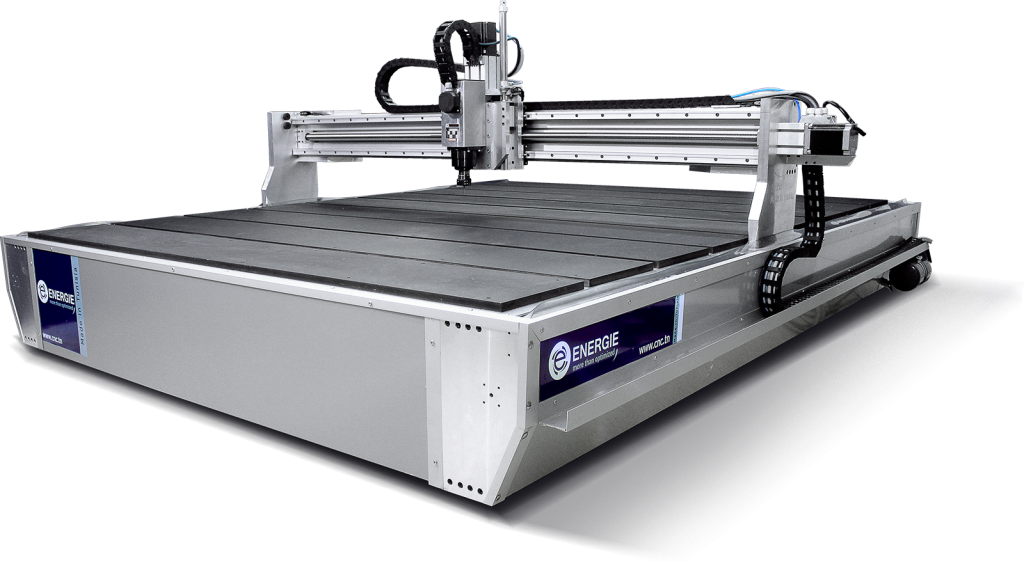
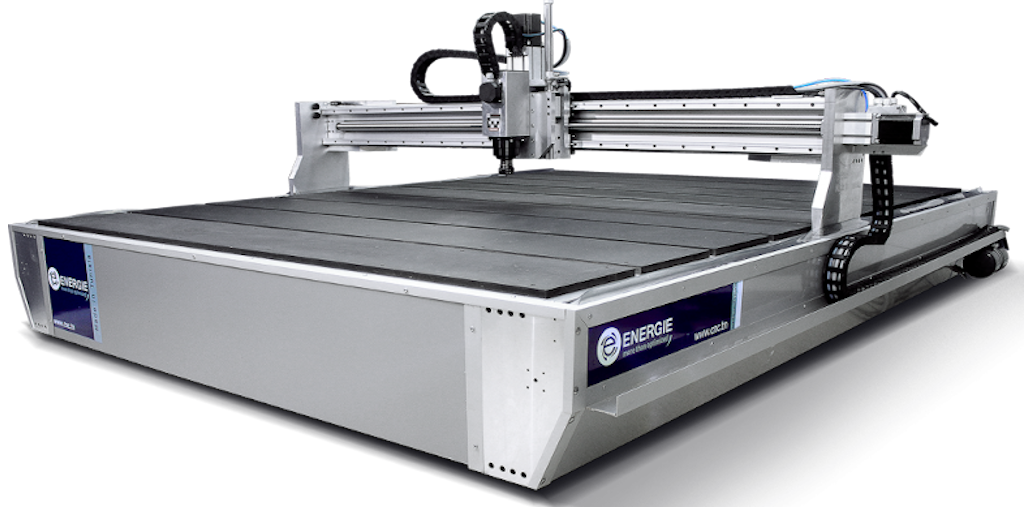
change 3d image

diff --git a/components/carousel.vue b/components/carousel.vue
@@ -27,7 +27,7 @@
           indicators
         >
           <!-- Text slides with image -->
-          <b-carousel-slide img-src="/cncpremium-ST--1024x568.WebP" />
+          <b-carousel-slide img-src="/cncpremium-ST--1024x568.png" />
           <b-carousel-slide img-src="/cncpremium_pro_3d.png" />
         </b-carousel>
       </b-col>
